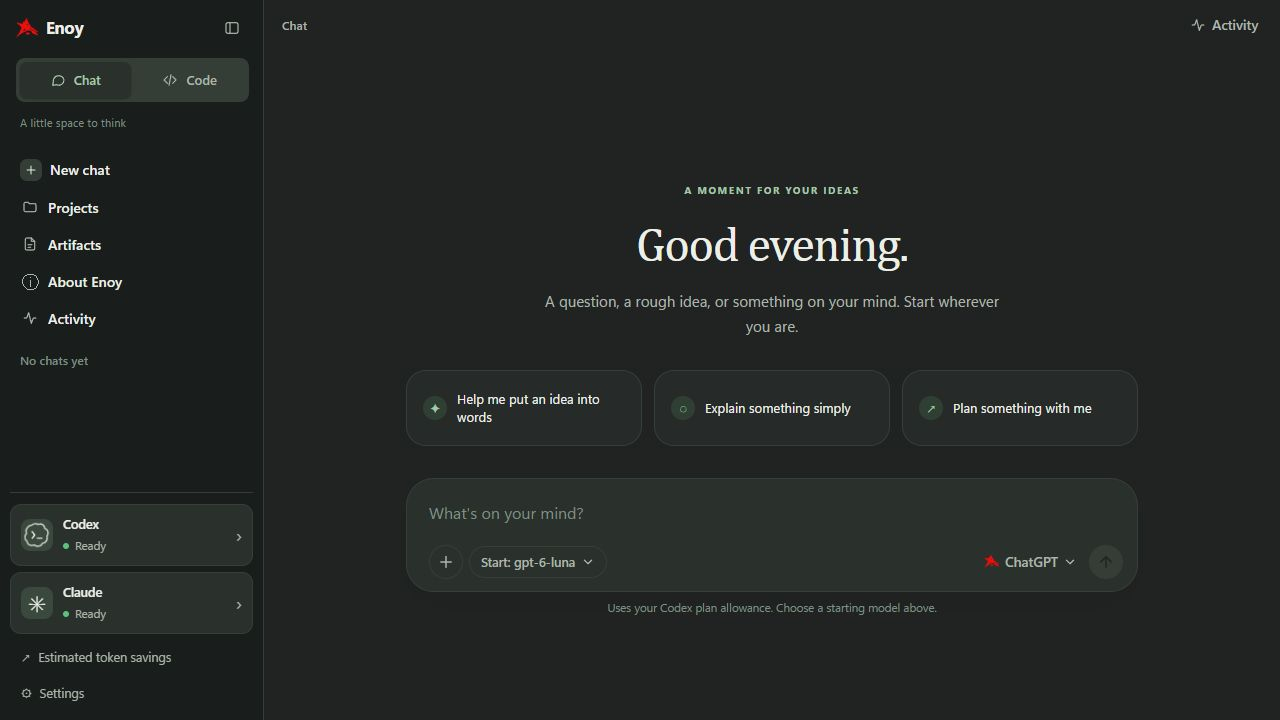
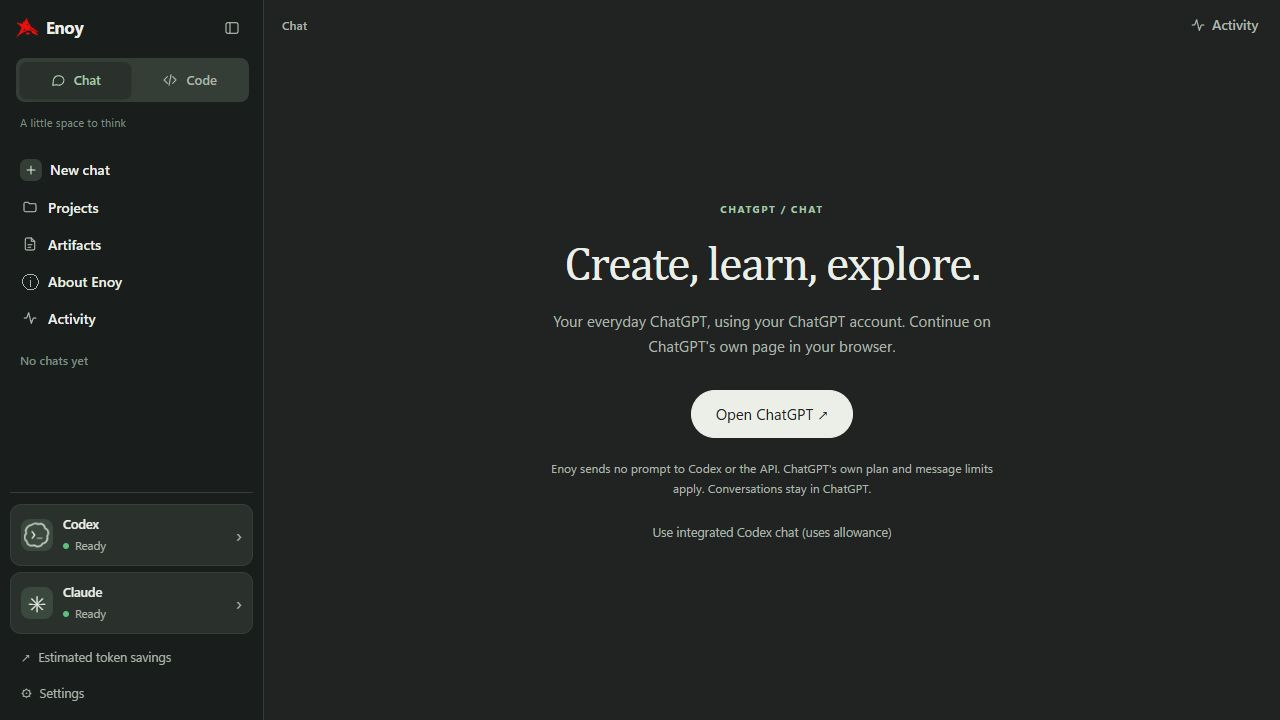
Make ordinary ChatGPT the default Chat experience

diff --git a/enoy/ui/app.js b/enoy/ui/app.js
@@ -30,6 +30,11 @@ const SLASH_COMMANDS = [
 function imgUrl(id) { return `/api/images/${id}?token=${encodeURIComponent(TOKEN)}`; }
 // Chat mode = plain chats (no folder); Code mode = chats about a project folder.
 function mode() { return S.project && (S.project.is_default || S.project.kind === "space") ? "chat" : "code"; }
+function regularChat() { return mode() === "chat" && (S.config?.chat?.experience || "chatgpt") === "chatgpt"; }
+async function openRegularChatGPT() {
+  try { toast((await api("POST", "/api/chatgpt/open", {})).message); }
+  catch (e) { toast(e.message, true); }
+}
 function codeProjects() { return S.projects.filter(p => !p.is_default && p.kind !== "space"); }
 
 // ---------------------------------------------------------------- helpers
@@ -170,6 +175,7 @@ function renderSidebar() {
   const p = S.project;
   const m = mode();
   document.documentElement.dataset.mode = m;
+  document.documentElement.dataset.chatExperience = regularChat() ? "chatgpt" : "integrated";
   $("mode-caption").textContent = m === "chat" ? "A little space to think" : "Your development workspace";
   $("mode-indicator").textContent = m === "chat" ? "Chat" : "Code workspace";
   $("workspace-context").innerHTML = m === "code" ? `<span class="workspace-label">WORKSPACE</span><span class="workspace-path" title="${esc(p?.path || "")}">${esc(p?.path || "Choose a project folder to get started")}</span><button class="btn small ghost" data-action="pick-folder">${p ? "Change folder" : "Open folder"}</button>` : "";
@@ -344,7 +350,7 @@ function renderModelPicker() {
   if (!el) return;
   const m = MODELS[S.model] || MODELS.auto;
   el.innerHTML = `<button class="picker-btn" data-action="model-menu" title="Who answers: ${esc(m.desc)}">
-    ${S.model === "auto" ? `<img class="mini-mark" src="/static/logo.svg" alt="">` : avatar(S.model)} ${mode() === "chat" && S.model === "auto" ? "ChatGPT" : m.title}${CHEV}</button>`;
+    ${S.model === "auto" ? `<img class="mini-mark" src="/static/logo.svg" alt="">` : avatar(S.model)} ${mode() === "chat" && S.model === "auto" ? "Codex" : m.title}${CHEV}</button>`;
 }
 
 function teamOn() { return S.chat ? !!S.chat.task.state.team : !!S.team; }
@@ -383,6 +389,16 @@ function renderThread(forceBottom = false) {
   const main = $("main");
   if (!S.chat) {
     main.classList.add("empty");
+    if (regularChat()) {
+      $("thread").innerHTML = `<div class="hello regular-chat-home">
+        <div class="home-eyebrow">CHATGPT / CHAT</div>
+        <h1 class="serif">Create, learn, explore.</h1>
+        <p>Your everyday ChatGPT, using your ChatGPT account. Continue on ChatGPT's own page in your browser.</p>
+        <div class="chatgpt-actions"><button class="btn primary" data-action="open-chatgpt">Open ChatGPT ↗</button></div>
+        <p class="small muted chatgpt-note">Enoy sends no prompt to Codex or the API. ChatGPT's own plan and message limits apply. Conversations stay in ChatGPT.</p>
+        <button class="btn ghost small" data-action="integrated-chat">Use integrated Codex chat (uses allowance)</button></div>`;
+      return;
+    }
     const hour = new Date().getHours();
     const greet = hour < 5 ? "Working late" : hour < 12 ? "Good morning" : hour < 18 ? "Good afternoon" : "Good evening";
     const general = S.project && S.project.is_default;
@@ -721,6 +737,10 @@ setInterval(() => {
 
 const AUTO_SIZE = CSS.supports("field-sizing", "content");
 function renderComposer() {
+  if (regularChat()) {
+    $("composer-wrap").innerHTML = S.chat ? `<div class="chatgpt-history-note"><span>This is a saved Enoy conversation. Regular ChatGPT conversations stay on ChatGPT.</span><div class="provider-actions"><button class="btn primary" data-action="open-chatgpt">Open ChatGPT ↗</button><button class="btn" data-action="integrated-chat">Continue here with Codex (uses allowance)</button></div></div>` : "";
+    return;
+  }
   const busy = S.chat && ["running", "queued"].includes(S.chat.task.status);
   const general = S.project && S.project.is_default;
   const placeholder = S.chat ? "Reply…" : mode() === "chat" ? "What's on your mind?" : S.project ? `Ask about ${S.project.name}, or describe a change…` : "Describe what to build or change. You'll pick the folder next.";
@@ -785,6 +805,7 @@ function composerNote() {
 }
 
 async function send(textOverride) {
+  if (regularChat()) { await openRegularChatGPT(); return; }
   const ta = $("prompt");
   let text = (textOverride ?? (ta ? ta.value : "")).trim();
   if (S.uploading) { toast("Wait a moment: an image is still being added."); return; }
@@ -1008,6 +1029,11 @@ function settingsGeneral() {
   const theme = lsGet("theme") || "dark";
   const p = S.project;
   $("set-body").innerHTML = `
+    <div class="set-section"><h3>Chat experience</h3>
+      <label class="field">Default for Chat<select id="chat-experience">
+      <option value="chatgpt" ${(S.config?.chat?.experience || "chatgpt") === "chatgpt" ? "selected" : ""}>Regular ChatGPT (opens in your browser)</option>
+      <option value="integrated" ${S.config?.chat?.experience === "integrated" ? "selected" : ""}>Integrated Codex chat (uses Codex allowance)</option>
+      </select><span class="small muted">Regular ChatGPT uses its own page and account limits. Enoy sends no model request when opening it.</span></label></div>
     <div class="set-section"><h3>Appearance</h3>
       <div class="set-row"><div class="lbl"><span>Theme</span></div>
         <select id="theme-select">${["system", "light", "dark"].map(t => `<option value="${t}" ${t === theme ? "selected" : ""}>${t[0].toUpperCase() + t.slice(1)}</option>`).join("")}</select></div></div>
@@ -1028,7 +1054,16 @@ function settingsGeneral() {
       <a class="btn" href="https://github.com/anglerequip/Enoy/releases" target="_blank" rel="noopener noreferrer">Releases</a></div>
       <p id="update-state" class="small muted" role="status">Updates are checked when you click.</p></div>`;
   $("theme-select").addEventListener("change", e => { applyTheme(e.target.value); lsSet("theme", e.target.value); });
+  $("chat-experience").addEventListener("change", e => guarded(async () => {
+    await setChatExperience(e.target.value);
+  }));
   renderUpdateStatus(S.updates);
+}
+
+async function setChatExperience(value) {
+  const data = await api("POST", "/api/config", {config: {chat: {experience: value}}});
+  S.config = data.config;
+  renderAll();
 }
 
 function renderUpdateStatus(data) {
@@ -1281,7 +1316,7 @@ const actions = {
     closeModal(); renderComposer();
   },
   "toggle-sidebar": () => $("app").classList.toggle("no-sidebar"),
-  "new-chat": () => { closeSidebarIfNarrow(); S.chat = null; S.chatId = null; S.draft = ""; S.localOnly = false;
+  "new-chat": () => { if (regularChat()) { openRegularChatGPT(); return; } closeSidebarIfNarrow(); S.chat = null; S.chatId = null; S.draft = ""; S.localOnly = false;
     S.team = !!(S.status && S.status.team_default); renderAll(); $("prompt").focus(); },
   "team-toggle": () => guarded(async () => {
     if (!S.chat) { S.team = !S.team; renderAll(); return; }
@@ -1324,7 +1359,7 @@ const actions = {
   "pick-folder": () => pickFolder(),
   "mode": el => guarded(async () => {
     const want = el.dataset.mode;
-    if (want === mode() && (want === "chat" || S.project)) return;
+    if (want === mode() && (want === "chat" || S.project)) { if (regularChat()) await openRegularChatGPT(); return; }
     S.chat = null; S.chatId = null; S.draft = "";
     if (want === "chat") await useDefaultProject();
     else {
@@ -1335,7 +1370,10 @@ const actions = {
       else { S.project = null; S.chats = []; renderSidebar(); }
     }
     renderAll();
+    if (want === "chat" && regularChat()) await openRegularChatGPT();
   }),
+  "open-chatgpt": () => openRegularChatGPT(),
+  "integrated-chat": () => guarded(async () => { await setChatExperience("integrated"); toast("Integrated chat uses your Codex plan allowance."); }),
   "add-images": () => { closeMenu(); const i = $("img-input"); if (i) i.click(); },
   "unattach-image": el => { S.images = S.images.filter(im => im.id !== el.dataset.id); renderComposer(); },
   "view-image": (el, e) => { if (e) e.preventDefault();
@@ -1753,7 +1791,7 @@ async function start() {
   setInterval(loadStatus, 20000);
   setInterval(() => api("POST", "/api/heartbeat").catch(() => {}), 30000);
   api("POST", "/api/heartbeat").catch(() => {});
-  try { await loadProjects(); } catch (e) { /* server problem shown in status */ }
+  await Promise.allSettled([loadProjects(), api("GET", "/api/config").then(meta => { S.config = meta.config; })]);
   const last = Number(lsGet("lastProject"));
   const linked = Number((location.hash.match(/^#chat=(\d+)$/) || [])[1]);
   try {

diff --git a/tests/js/regular-chat.test.js b/tests/js/regular-chat.test.js
@@ -1,0 +1,23 @@
+"use strict";
+const fs = require('fs'), vm = require('vm'), assert = require('assert');
+const source = fs.readFileSync('enoy/ui/app.js', 'utf8');
+const requests = [], toasts = [];
+const ctx = { S: {config: {chat: {experience: 'chatgpt'}}},
+  mode: () => 'chat', toast: value => toasts.push(value),
+  api: async (...args) => { requests.push(args); return {message: 'Opened'}; },
+};
+vm.createContext(ctx);
+vm.runInContext(source.slice(source.indexOf('function regularChat()'), source.indexOf('function codeProjects()')), ctx);
+vm.runInContext(source.slice(source.indexOf('async function send('), source.indexOf('async function runSlashCommand(')), ctx);
+(async () => {
+  await ctx.send('This must never go to a model');
+  assert.equal(requests.length, 1);
+  assert.equal(requests[0][1], '/api/chatgpt/open');
+  assert.deepEqual(Object.keys(requests[0][2]), []);
+  assert(!requests.some(r => r[1].includes('/tasks')));
+  ctx.S.config.chat.experience = 'integrated';
+  assert.equal(ctx.regularChat(), false);
+  ctx.S.config = null;
+  assert.equal(ctx.regularChat(), true);
+  console.log('Regular ChatGPT never sends a Codex prompt');
+})().catch(e => { console.error(e); process.exitCode = 1; });

diff --git a/enoy/ui/styles.css b/enoy/ui/styles.css
@@ -927,6 +927,11 @@ body.frame-maximized .wc-close:hover { border-top-right-radius: 0; }
 :root[data-mode="chat"] #main.empty #composer-wrap { margin-bottom: auto; }
 :root[data-mode="chat"] #main.empty .composer-note { display: block; }
 :root[data-mode="chat"] .hello { width: 100%; max-width: 740px; margin: auto; }
+.chatgpt-actions { margin: 30px 0 20px; }
+.chatgpt-actions .btn { padding: 12px 24px; font-size: 15px; }
+.regular-chat-home .chatgpt-note { margin: 0 auto 20px; font-size: 12px; line-height: 1.6; max-width: 430px; }
+.chatgpt-history-note { background: var(--panel); border: 1px solid var(--border); border-radius: 20px; padding: 18px; font-size: 13px; color: var(--muted); }
+:root[data-mode="chat"][data-chat-experience="chatgpt"] #main.empty #scroll { flex: 1; margin-top: 0; }
 :root[data-mode="chat"] .hello h1.serif { font: 400 clamp(32px, 4.5vw, 48px)/1.15 Cambria, Georgia, serif; letter-spacing: -.025em; margin-bottom: 18px; }
 :root[data-mode="chat"] .hello p { max-width: 470px; line-height: 1.7; }
 :root[data-mode="chat"] .suggest { margin-top: 30px; gap: 12px; }

diff --git a/tests/test_server.py b/tests/test_server.py
@@ -101,6 +101,18 @@ def test_update_api_requires_auth_and_handles_active_tasks(server, monkeypatch):
     assert call(server, 'POST', '/api/updates', {}) == (200, {'status': 'checking'})
 
 
+def test_regular_chat_launch_never_calls_a_backend(server, monkeypatch):
+    from enoy import provider_launch
+    opened = []
+    monkeypatch.setattr(provider_launch, 'open_chatgpt', lambda: opened.append(True) or {'opened': True})
+    before = {name: len(backend.requests) for name, backend in server.app.orc.backends.items()}
+    assert call(server, 'POST', '/api/chatgpt/open', {}, token=False)[0] == 401
+    assert not opened
+    assert call(server, 'POST', '/api/chatgpt/open', {'prompt': 'must not be forwarded'}) == (200, {'opened': True})
+    assert opened == [True]
+    assert {name: len(backend.requests) for name, backend in server.app.orc.backends.items()} == before
+
+
 def test_api_requires_token_and_local_host(server):
     assert call(server, "GET", "/api/status", token=False)[0] == 401
     assert call(server, "GET", "/api/status", host="evil.example.com")[0] == 403

diff --git a/enoy/config.py b/enoy/config.py
@@ -41,6 +41,7 @@ DEFAULT_ALLOWLIST = [
 ]
 
 DEFAULTS: dict[str, Any] = {'coordinator': {'enabled': True, 'claude_reviews': True, 'claude_complex': True},
+ 'chat': {'experience': 'chatgpt'},
  'blender': {'enabled': False, 'server_executable': '', 'host': '127.0.0.1', 'port': 9876},
  'agent': {'native_tools': True, 'access_mode': 'workspace'},
  'codex': {'enabled': True, 'executable': '', 'model': 'gpt-6.1-sol', 'effort': 'medium', 'timeout_s': 1800,
@@ -120,6 +121,7 @@ SCHEMA: dict[str, dict[str, tuple[type | tuple, Any]]] = {
                 "port": (int, _range(1, 65535))},
     "agent": {"native_tools": (bool, None), "access_mode": (str, _choice(("workspace", "full")))},
     "coordinator": {"enabled": (bool, None), "claude_reviews": (bool, None), "claude_complex": (bool, None)},
+    "chat": {"experience": (str, _choice(("chatgpt", "integrated")))},
     "codex": {
         "enabled": (bool, None),
         "executable": (str, None),

diff --git a/launch/smoke-release.py b/launch/smoke-release.py
@@ -1,5 +1,6 @@
 """Exercise the frozen HTTP app and stdio helper without calling a model."""
 import json
+import re
 from pathlib import Path
 import subprocess
 import sys
@@ -34,6 +35,10 @@ try:
     with urllib.request.urlopen(info['url'], timeout=5) as response:
         html = response.read().decode()
     assert 'mode-indicator' in html and 'workspace-context' in html
+    token = re.search(r'name="enoy-token" content="([^"]+)"', html).group(1)
+    request = urllib.request.Request(info['url'] + 'api/config', headers={'X-Enoy-Token': token})
+    with urllib.request.urlopen(request, timeout=5) as response:
+        assert json.load(response)['config']['chat']['experience'] == 'chatgpt'
     with urllib.request.urlopen(info['url'] + 'static/styles.css', timeout=5) as response:
         assert 'data-mode="chat"' in response.read().decode()
     print('Packaged app, UI assets and stdio MCP helper passed smoke checks.')

diff --git a/launch/collect-licenses.py b/launch/collect-licenses.py
@@ -1,10 +1,14 @@
 """Copy license texts for distributions included in the desktop runtime."""
 from importlib.metadata import distribution
 from pathlib import Path
+import sys
 
 target = Path('dist/Enoy/THIRD-PARTY-NOTICES')
 target.mkdir(parents=True, exist_ok=True)
-for name in ('pywebview', 'bottle', 'clr_loader', 'pythonnet', 'proxy_tools', 'cffi', 'pycparser', 'typing_extensions'):
+python_license = Path(sys.base_prefix) / 'LICENSE.txt'
+if python_license.is_file():
+    (target / 'Python-LICENSE.txt').write_bytes(python_license.read_bytes())
+for name in ('pywebview', 'bottle', 'clr_loader', 'pythonnet', 'proxy_tools', 'cffi', 'pycparser', 'typing_extensions', 'pyinstaller', 'setuptools', 'packaging'):
     dist = distribution(name)
     folder = target / name
     folder.mkdir(exist_ok=True)

diff --git a/tests/test_provider_launch.py b/tests/test_provider_launch.py
@@ -38,3 +38,14 @@ def test_missing_cli(monkeypatch):
     monkeypatch.setattr(provider_launch.codex, 'find_executable', lambda _: None)
     with pytest.raises(ValueError, match='not found'):
         provider_launch.launch('codex', {}, 'launch')
+
+
+def test_regular_chat_opens_only_chatgpt_without_prompt(monkeypatch):
+    import webbrowser
+    opened = Mock(return_value=True)
+    monkeypatch.setattr(webbrowser, 'open', opened)
+    assert provider_launch.open_chatgpt()['opened']
+    opened.assert_called_once_with('https://chatgpt.com/', new=2)
+    opened.return_value = False
+    with pytest.raises(ValueError, match='Could not open'):
+        provider_launch.open_chatgpt()

diff --git a/enoy/provider_launch.py b/enoy/provider_launch.py
@@ -9,6 +9,14 @@ from .backends import claude_code, codex
 from . import paths
 
 
+def open_chatgpt():
+    """Open ordinary ChatGPT without handing it prompts, files or CLI credentials."""
+    import webbrowser
+    if not webbrowser.open("https://chatgpt.com/", new=2):
+        raise ValueError("Could not open your browser. Visit https://chatgpt.com/ to use regular ChatGPT.")
+    return {"opened": True, "message": "ChatGPT opened in your browser. Enoy sent no prompt to Codex or the API."}
+
+
 def install_missing():
     if os.name != "nt":
         raise ValueError("Automatic provider setup is supported on Windows only.")

diff --git a/tests/test_markdown_js.py b/tests/test_markdown_js.py
@@ -10,7 +10,7 @@ NODE = shutil.which("node")
 
 
 @pytest.mark.skipif(NODE is None, reason="Node.js is not installed")
-@pytest.mark.parametrize("filename", ["markdown.test.js", "chat-refresh.test.js", "provider-status.test.js", "activity-summary.test.js"])
+@pytest.mark.parametrize("filename", ["markdown.test.js", "chat-refresh.test.js", "provider-status.test.js", "activity-summary.test.js", "regular-chat.test.js"])
 def test_markdown_renderer(filename):
     script = Path(__file__).parent / "js" / filename
     proc = subprocess.run([NODE, str(script)], capture_output=True, text=True, encoding="utf-8", timeout=60)

diff --git a/enoy/server.py b/enoy/server.py
@@ -80,6 +80,11 @@ class App:
         orc = self.orc
         db = orc.db
 
+        @r("POST", "/api/chatgpt/open")
+        def open_regular_chatgpt(q, body):
+            from .provider_launch import open_chatgpt
+            return open_chatgpt()
+
         @r("GET", "/api/updates")
         def update_status(q, body):
             return self.updates.snapshot()

diff --git a/enoy/__init__.py b/enoy/__init__.py
@@ -1,3 +1,3 @@
 """Enoy: ChatGPT-led collaboration with Codex and Claude."""
 
-__version__ = "0.5.0"
+__version__ = "0.5.1"
